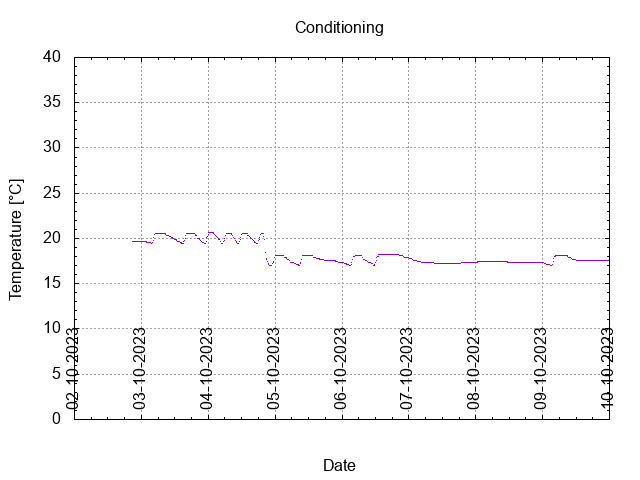
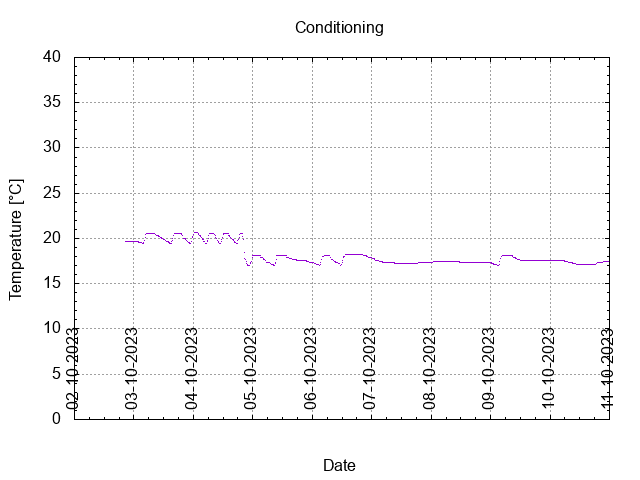
Updated batch 39.

diff --git a/docs/homebrewing/batches/batch_39/README.md b/docs/homebrewing/batches/batch_39/README.md
@@ -6,15 +6,17 @@
 
 18-09-2023 20:18 Start fermentation.
 
-Start conditioning.
+02-10-2023 20:39 Start conditioning.
 
-Completed conditioning.
+16-10-2023 23:59 Completed conditioning.
 
 Archived.
 
 ## Process
 
 ![temperature](temperature.png)
+
+![mash_ph](mash_ph.png)
 
 ![fermentation](fermentation.png)
 
